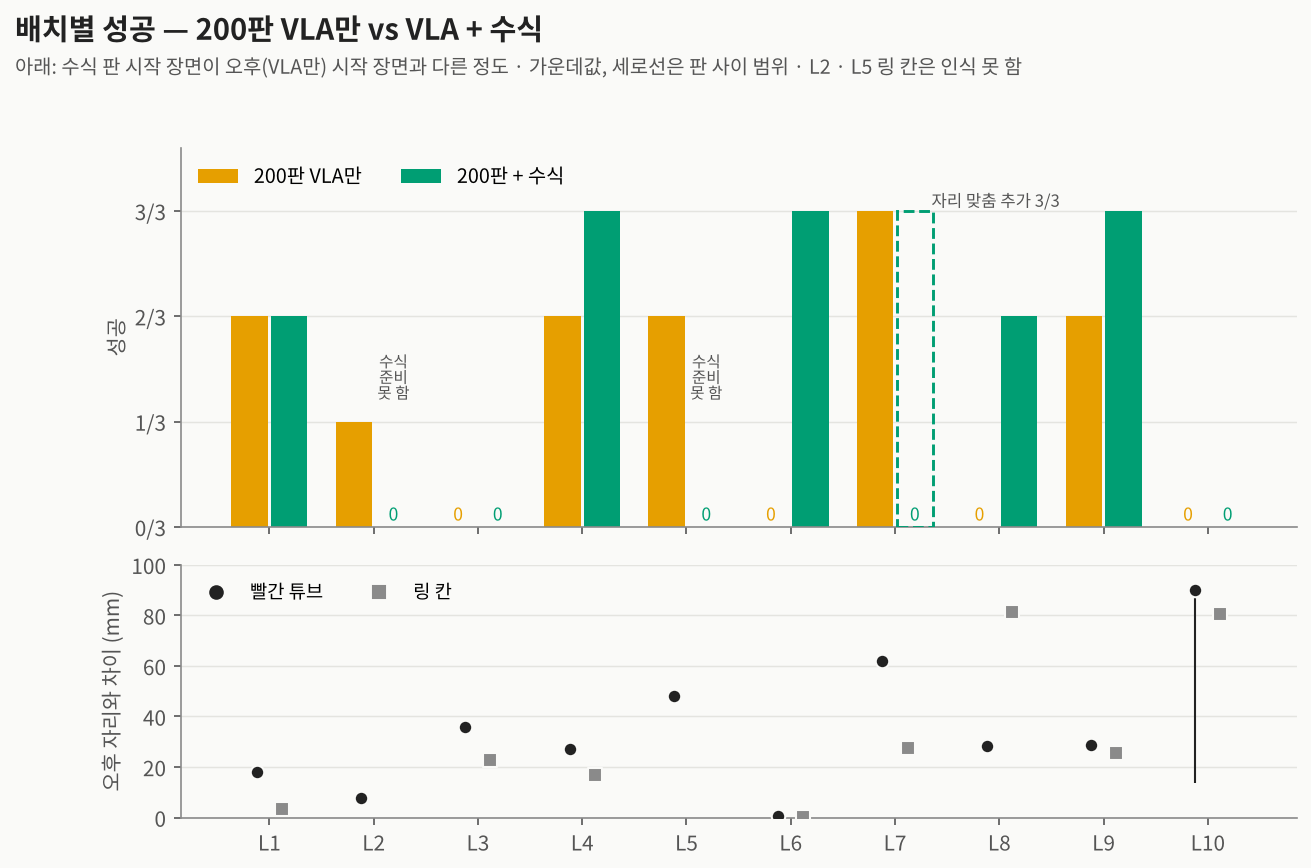
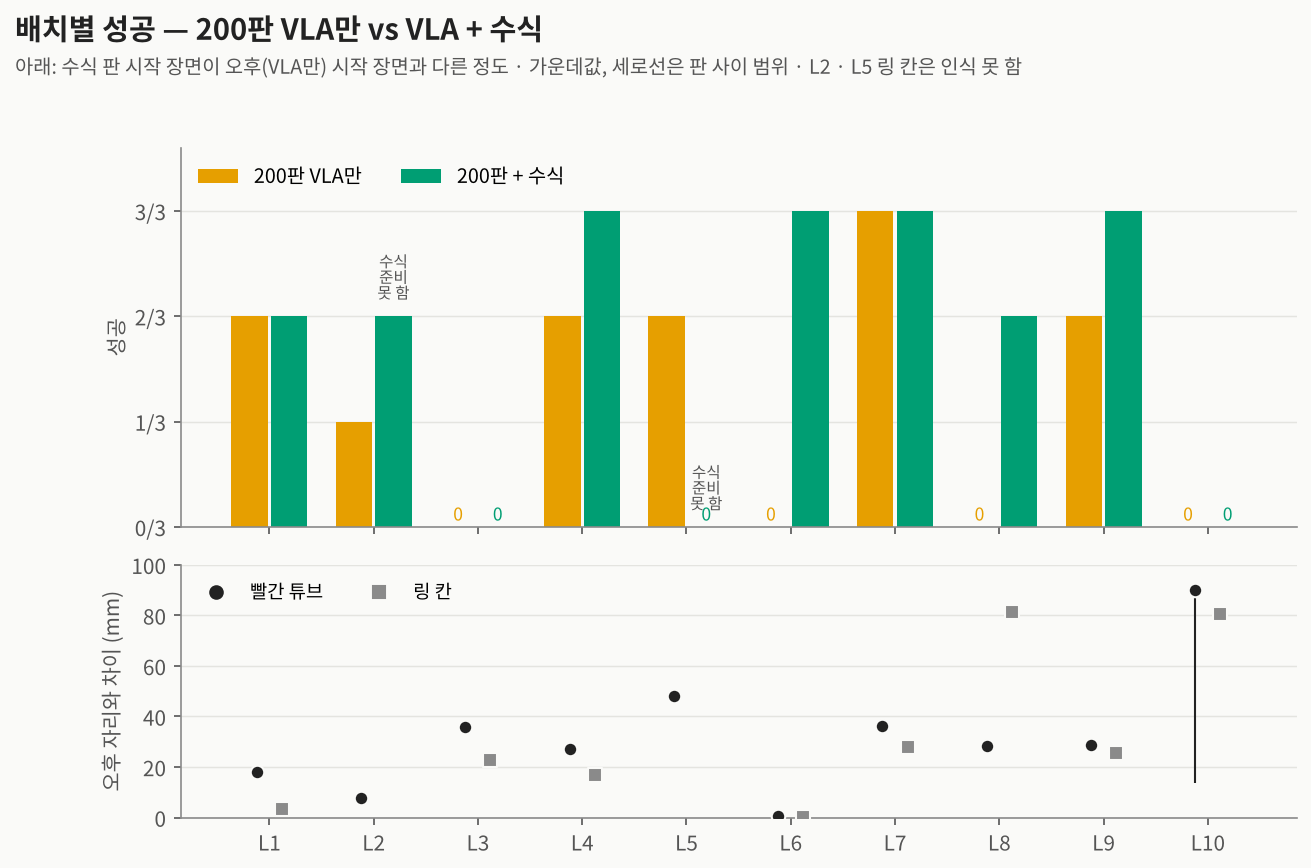
Add files via upload

diff --git a/scripts/make_figures_hybrid.py b/scripts/make_figures_hybrid.py
@@ -69,7 +69,7 @@ def fig_layout(B, H, HA):
     for n in xs:
         R = [r for r in H if int(r["layout"]) == n]
         if R and not any(int(r["hy_ready"]) for r in R):
-            a1.text(n + 0.5 * w, 1.2, "수식\n준비\n못 함", ha="center", va="bottom", fontsize=7.5, color=INK2, linespacing=1.0)
+            a1.text(n + 0.5 * w, sum(1 for r in R if r["verdict"] == "success") + 0.15, "수식\n준비\n못 함", ha="center", va="bottom", fontsize=7.5, color=INK2, linespacing=1.0)
     X = [r for r in HA if r["counted"] == "0"]
     if X:
         n = int(X[0]["layout"])

diff --git a/README.md b/README.md
@@ -9,7 +9,7 @@
 > - 평가 단계표는 FR3 결과([BioRoboticsMVLAFranka](https://github.com/SungjinDavidLee/BioRoboticsMVLAFranka))의 S0–S9를 FR5 기록에 맞춰 썼다(4절).
 > - 추가: 200판 모델에 VLA + 수식(자동 보정)을 붙여 같은 배치 L1–L10에서 다시 쟀다(9절).
 
-**English summary.** Two GR00T N1.7 policies fine-tuned for a FAIRINO FR5 tube-insertion task were each run 30 times on ten layouts (L1–L10, three valid trials per layout) and scored stage by stage (S9 = the red tube is inserted into the red-ringed slot, by human judgement). **1200** — 200 scripted real demonstrations repeated three times plus 600 simulated ones: 16/30 (53%, Wilson 95% CI 36–70%). **200** — the same 200 real demonstrations alone, with colour/brightness augmentation: 12/30 (40%, 25–58%). The difference is not significant (Fisher p = 0.44). Both models reached and grasped the red tube at almost the same rate (S4 19 vs 18 of 30) and every grasped tube was lifted and carried to within about 20 mm of the slot; the gap came from the last step (inserted 16/19 vs 12/18, p = 0.27). Both failed on L3 (the gripper closed nearer the yellow tube in 5 of 6 trials) and L10. The two runs were on different days and the racks were placed by hand from photos, so the same layout number differed by 8–60 mm (tube) and 9–88 mm (slot) between the two days; per-layout comparisons are therefore not paired. **Added (section 9):** the same 200 checkpoint run with a scripted hand-off for the last millimetres of grasping and insertion (rules taken from the FR3 study): 13/30 (43%, 27–61%) vs 12/30 VLA-only (p = 1.0). All 14 red-tube grasp hand-offs held the tube and 13 of 14 insertions seated, but the overall rate barely moved because the remaining failures were wrong-tube choices (8), start-scene recognition failures that left the hand-off unarmed (6) and closes beyond the 25 mm hand-off radius (2).
+**English summary.** Two GR00T N1.7 policies fine-tuned for a FAIRINO FR5 tube-insertion task were each run 30 times on ten layouts (L1–L10, three valid trials per layout) and scored stage by stage (S9 = the red tube is inserted into the red-ringed slot, by human judgement). **1200** — 200 scripted real demonstrations repeated three times plus 600 simulated ones: 16/30 (53%, Wilson 95% CI 36–70%). **200** — the same 200 real demonstrations alone, with colour/brightness augmentation: 12/30 (40%, 25–58%). The difference is not significant (Fisher p = 0.44). Both models reached and grasped the red tube at almost the same rate (S4 19 vs 18 of 30) and every grasped tube was lifted and carried to within about 20 mm of the slot; the gap came from the last step (inserted 16/19 vs 12/18, p = 0.27). Both failed on L3 (the gripper closed nearer the yellow tube in 5 of 6 trials) and L10. The two runs were on different days and the racks were placed by hand from photos, so the same layout number differed by 8–60 mm (tube) and 9–88 mm (slot) between the two days; per-layout comparisons are therefore not paired. **Added (section 9):** the same 200 checkpoint run with a scripted hand-off for the last millimetres of grasping and insertion (rules taken from the FR3 study): 18/30 (60%, 42–75%) vs 12/30 VLA-only (p = 0.20, not significant). All 17 red-tube grasp hand-offs held the tube and 16 of 17 insertions seated; insertion after transport rose from 12/18 to 18/19. The remaining failures were wrong-tube choices (6), start-scene recognition failures that left the hand-off unarmed (4), one close beyond the 25 mm hand-off radius and one partial insertion.
 
 **과제 한 판 — 평가표 단계로 본 네 장면: S0 초기 위치 · S4 쥐기 · S8 이송 · S9 꽂힘**
 
@@ -345,55 +345,56 @@
 - 시간: 2026-11-15 저녁(L2 · L3 · L5 · L6 · L8 · L10), 11-16 오전(L1 · L4 · L7 · L9). 비교 대상은 같은 체크포인트의 VLA만 평가(11-15 오후)다.
 - 배치는 VLA만 평가의 시작 장면을 기준으로 놓고 판마다 차이를 기록했다. 빨간 튜브는 가운데값 28 mm(0–90 mm), 링 칸은 23 mm(0–81 mm) 달랐다.
 - 실행 조건은 3.2절과 같다. 왕복 시간 가운데값 280 ms, 판 시작 3인칭 밝기 147–157.
-- 판정과 채점은 4절 그대로다. 수식이 준비되지 못해 VLA만으로 돈 판도 그대로 센다. 무효 1판(앞 판의 튜브가 링 칸에 꽂힌 채 시작해 멈춤)은 뺐다.
+- 판정과 채점은 4절 그대로다. 수식이 준비되지 못해 VLA만으로 돈 판도 그대로 센다. 무효 4판은 뺐다: 앞 판의 튜브가 링 칸에 꽂힌 채 시작해 멈춘 1판(L9), 받침을 오후 자리와 62 mm 어긋나게 놓고 돈 L7 3판. L7은 다시 놓고(36 mm) 3판을 새로 돌렸다.
 
 ### 9.3 결과
 
 | 조건 | 판 | 성공 (Wilson 95%) | 부분 | 실패 |
 |---|---|---|---|---|
 | 200판 VLA만 | 30 | 12 (40%, 25–58%) | 6 | 12 |
-| 200판 + 수식 | 30 | **13 (43%, 27–61%)** | 5 | 12 |
+| 200판 + 수식 | 30 | **18 (60%, 42–75%)** | 3 | 9 |
 
-두 조건의 성공률 차이는 없다(Fisher p = 1.0).
+성공은 6판 많지만 차이는 통계적으로 확정되지 않는다(Fisher p = 0.20).
 
 ![VLA만 vs VLA + 수식 단계별 누적 통과율](figs/fig_hy_stage_cumulative.png)
 
 | 단계 | VLA만 | + 수식 |
 |---|---|---|
-| S1 목표 선택 | 26 | 22 |
-| S2 접근 | 22 | 20 |
-| S4 쥐기 | 18 | 18 |
-| S6 들기 | 18 | 18 |
-| S8 이송 | 18 | 16 |
-| S9 꽂힘 | 12 | 13 |
+| S1 목표 선택 | 26 | 24 |
+| S2 접근 | 22 | 23 |
+| S4 쥐기 | 18 | 21 |
+| S6 들기 | 18 | 21 |
+| S8 이송 | 18 | 19 |
+| S9 꽂힘 | 12 | 18 |
 
-- 쥐기(S4)까지 온 판은 두 조건 모두 18판이다.
-- 목표 선택(S1)은 수식 쪽이 4판 적다. 늘어난 4판은 L7 2판(빨강과 노랑 사이의 빈 구멍 위에서 닫음, 노랑이 1–3 mm 더 가까움)과 L10 2판(노란 튜브로 감)이다.
-- S8 차이 2판은 링 칸을 인식하지 못한 L5 2판이다. 링 칸 자리를 몰라 통과로 세지 않았다.
+- 차이는 대부분 마지막 꽂기에서 났다. 이송(S8)까지 온 판 중 꽂힌 판이 VLA만 12/18, + 수식 18/19다.
+- 쥐기(S4)까지 온 판은 수식 쪽이 3판 많다(21 vs 18).
+- 목표 선택(S1)은 수식 쪽이 2판 적다. L10 2판이 노란 튜브로 갔다.
+- 들기(S6)에서 이송(S8)으로 가며 수식 쪽 2판이 빠진 것은 링 칸을 인식하지 못한 L5 2판이다. 링 칸 자리를 몰라 통과로 세지 않았다.
 
 수식이 맡은 부분은 아래와 같다.
 
 | 항목 | 결과 |
 |---|---|
 | 수식 준비(시작 장면에서 뚜껑 · 링 칸 인식) | 24/30 — L2 · L5 6판은 링 칸 인식 실패로 VLA만 |
-| 잡기 넘김 | 17판(빨강 14 · 노랑 3), 17판 모두 쥠. 닫을 때 계획과 수평 0.0–0.1 mm, 쥔 폭 28.1–28.3 mm |
-| 빨간 뚜껑 넘김 거리 | VLA가 닫으려던 자리 → 빨간 뚜껑 가운데값 14.8 mm (4.4–24.6) |
-| 잡기 안 넘김 | 7판 — 가장 가까운 뚜껑에서 25.8–37.4 mm, VLA가 그대로 닫음 |
-| 빨간 튜브 꽂기 넘김 | 14판 → 꽂힘 13, 덜 꽂힘 1(L1-2) |
-| 꽂기 넘김 거리 · 놓은 자리 | VLA가 내려가려던 자리 → 링 칸 가운데값 17.8 mm (4.2–23.2), 놓을 때 계획과 수평 3.0 mm (0.6–11.6) |
-| 수식이 준비된 판의 성공 | 13/24 (54%) |
-| 걸린 시간 | 수식 잡기 9.2 s (6.8–15.3), 수식 꽂기 14.1 s (12.8–26.8), 성공 판 전체 31.5 s (27.5–60.1). VLA만 성공 판은 26.0 s |
+| 잡기 넘김 | 20판(빨강 17 · 노랑 3), 20판 모두 쥠. 닫을 때 계획과 수평 0.0–0.1 mm, 쥔 폭 28.1–28.3 mm |
+| 빨간 뚜껑 넘김 거리 | VLA가 닫으려던 자리 → 빨간 뚜껑 가운데값 15.3 mm (4.4–24.6) |
+| 잡기 안 넘김 | 4판 — 가장 가까운 뚜껑에서 25.8–31.5 mm, VLA가 그대로 닫음 |
+| 빨간 튜브 꽂기 넘김 | 17판 → 꽂힘 16, 덜 꽂힘 1(L1-2) |
+| 꽂기 넘김 거리 · 놓은 자리 | VLA가 내려가려던 자리 → 링 칸 가운데값 16.4 mm (3.9–23.2), 놓을 때 계획과 수평 3.0 mm (0.6–11.6) |
+| 수식이 준비된 판의 성공 | 16/24 (67%) |
+| 걸린 시간 | 수식 잡기 9.1 s (6.8–15.3), 빨간 튜브 수식 꽂기 14.2 s (12.8–26.8), 성공 판 전체 33.3 s (27.5–60.1). VLA만 성공 판은 26.0 s |
 
 ![판마다 수식이 넘겨받은 자리](figs/fig_hy_handoff.png)
 
-성공하지 못한 17판의 원인:
+성공하지 못한 12판의 원인:
 
 | 원인 | 판 | 판 번호 |
 |---|---|---|
 | 목표 선택 — 노란 튜브를 쥠 | 5 | L3-1 · L3-3 · L10-2(수식이 넘겨받아 노랑을 잡음), L10-1 · L10-3(VLA가 직접 쥠) |
-| 목표 선택 — 노랑 쪽에서 닫아 빈손 | 3 | L3-2 · L7-1 · L7-2 |
-| 수식 준비 못 함 → VLA만 | 6 | L2-1 · L2-2 · L2-3 · L5-1 · L5-2 · L5-3 (실패 2 · 부분 4) |
-| VLA가 빨강에서 25 mm 밖에서 닫음 | 2 | L8-1 (26 mm) · L7-3 (30 mm) |
+| 목표 선택 — 노랑 쪽에서 닫아 빈손 | 1 | L3-2 |
+| 수식 준비 못 함 → VLA만 | 4 | L2-1 · L5-1 · L5-2 · L5-3 (실패 2 · 부분 2) |
+| VLA가 빨강에서 25 mm 밖에서 닫음 | 1 | L8-1 (26 mm) |
 | 수식 꽂기 뒤 덜 꽂힘 | 1 | L1-2 |
 
 ### 9.4 배치별
@@ -403,14 +404,15 @@
 | 배치 | L1 | L2 | L3 | L4 | L5 | L6 | L7 | L8 | L9 | L10 | 합 |
 |---|---|---|---|---|---|---|---|---|---|---|---|
 | 200판 VLA만 | 2/3 | 1/3 | 0/3 | 2/3 | 2/3 | 0/3 | 3/3 | 0/3 | 2/3 | 0/3 | 12/30 |
-| 200판 + 수식 | 2/3 | 0/3 | 0/3 | 3/3 | 0/3 | 3/3 | 0/3 | 2/3 | 3/3 | 0/3 | 13/30 |
+| 200판 + 수식 | 2/3 | 2/3 | 0/3 | 3/3 | 0/3 | 3/3 | 3/3 | 2/3 | 3/3 | 0/3 | 18/30 |
 | 수식 준비된 판 | 3 | 0 | 3 | 3 | 0 | 3 | 3 | 3 | 3 | 3 | 24 |
-| 오후 자리와 빨강 차이 (mm) | 18 | 6–9 | 35–36 | 26–28 | 48 | 0–1 | 62 | 28–29 | 28–29 | 14–90 | |
+| 오후 자리와 빨강 차이 (mm) | 18 | 6–9 | 35–36 | 26–28 | 48 | 0–1 | 36 | 28–29 | 28–29 | 14–90 | |
 
-- 성공이 늘어난 배치는 L6(+3) · L8(+2) · L4(+1) · L9(+1)이다. VLA가 빨간 뚜껑 25 mm 안까지 온 판을 수식이 쥐고 꽂았다.
-- 성공이 줄어든 배치는 L7(−3) · L5(−2) · L2(−1)이다.
-  - L7은 빨간 튜브가 오후 자리와 62 mm 달랐고, VLA가 3판 모두 빨강 · 노랑 사이 빈 구멍 위에서 닫았다(뚜껑까지 30–37 mm). 받침을 옮겨 차이를 36 mm로 줄이고 3판을 더 돌렸을 때는 VLA가 빨강 15–23 mm 안으로 왔고 3/3 성공했다. 이 3판은 센 판에 넣지 않았다.
-  - L2 · L5는 링 칸 인식이 안 돼 수식 없이 VLA만으로 돈 판이다.
+- 성공이 늘어난 배치는 L6(+3) · L8(+2) · L4(+1) · L9(+1) · L2(+1)이다.
+  - L6 · L8 · L4 · L9는 VLA가 빨간 뚜껑 25 mm 안까지 온 판을 수식이 쥐고 꽂았다. L6 · L8은 VLA만 평가에서 21–38 mm 거리로 헛잡던 배치다.
+  - L2는 링 칸 인식이 안 돼 수식 없이 VLA만으로 돈 판이라 수식 효과가 아니다.
+- 성공이 줄어든 배치는 L5(−2)다. 링 칸 인식이 안 돼 VLA만으로 돌았다.
+- L7은 두 조건 모두 3/3이다. 수식 쪽은 VLA가 빨강 15–23 mm 안에서 닫으려던 것을 3판 모두 수식이 넘겨받았다.
 - 노란 튜브 쪽으로 간 L3 · L10은 두 조건 모두 0/3이다.
 
 ### 9.5 실행 영상
@@ -425,14 +427,15 @@
 ### 9.6 해석과 한계
 
 - FR3에서는 같은 방식으로 VLA만 6/20(E2)에서 VLA + 수식 16/30(E4)이 됐다. 그때 VLA만의 실패는 대부분 맞는 튜브 근처에서 1 cm 안팎 빗나간 경우였다.
-- FR5 200판은 VLA만으로도 30판 중 18판을 이미 쥐었다. 수식이 넘겨받은 빨강 판은 잡기 14/14, 꽂기 13/14로 잘 됐지만, 남은 실패는 목표 선택(8) · 인식 실패(6) · 25 mm 밖(2) 쪽이라 수식이 고칠 수 있는 몫이 적었다.
-- 두 조건은 다른 시간대에 돌렸고, 배치 자리도 빨간 튜브 기준 가운데값 28 mm 달랐다. 같은 시간대에 번갈아 돌린 비교가 아니다. L7처럼 같은 배열에서 자리만 바뀌어도 결과가 0/3과 3/3으로 갈렸다.
+- FR5 200판 VLA만의 실패는 쥐기 전(12판)과 꽂기(6판)로 나뉜다. 수식은 꽂기 쪽을 거의 다 메웠고(이송 뒤 꽂힘 12/18 → 18/19), 쥐기 쪽은 VLA가 25 mm 안까지 온 판만 메웠다. 남은 실패는 목표 선택(6) · 인식 실패(4) · 25 mm 밖(1) · 덜 꽂힘(1)이다.
+- 두 조건은 다른 시간대에 돌렸고, 배치 자리도 빨간 튜브 기준 가운데값 28 mm 달랐다. 같은 시간대에 번갈아 돌린 비교가 아니다.
+- L7은 처음에 받침을 오후 자리와 62 mm 어긋나게 놓고 3판을 돌렸다(0/3, VLA가 빨강 · 노랑 사이 빈 구멍 위에서 닫음). 이 3판을 배치 잘못으로 무효 처리하고, 다시 놓고(36 mm) 돈 3판(3/3)을 셌다. 무효 처리는 결과를 본 뒤 정했다. 다른 배치도 오후 자리와 차이가 있었다(L10-2 · L10-3 90 mm, L5 48 mm).
 - 배치 순서는 VLA만 결과에서 0/3이던 배치(L3 · L6 · L8 · L10)부터 돌렸다. 10배치를 모두 돌렸으므로 순서만 다르다.
 - L6 3판은 v6.7a 규칙을 정한 직후 시험 기록으로 돈 판을 옮겨 넣었다. 3/3 결과를 본 뒤에 넣기로 정했다. L6 장면에는 링 칸이 인식되도록 보이는 구멍에 링을 하나 더 두어, VLA만 평가 때와 장면이 다르다.
-- L2 · L5 6판의 판정은 사람이 정했다. 시작 장면에 링 칸 자리가 없어 자동 판정이 끝 장면을 판정하지 못했다.
+- L2 · L5 6판은 시작 장면에 링 칸 자리가 없어 자동 판정이 꽂힘을 판정하지 못했다. 판정은 끝 장면 사진으로 사람이 정했다(L2-2 · L2-3 성공).
 - L10-1은 수식 꽂기 중 제어판 추종이 꺼져 그 자리에 멈췄다(노란 튜브 판, 실패). 원인은 기록으로 가리지 못했다.
 - 꽂기 미세조정이 한계(손목 5° · 좌우 3 mm)에 닿은 채 놓은 판이 많다. 11-16 오전에는 내려가기 전 튜브 기울기가 −8 ~ −11°였다.
-- 조건마다 30판이라 1판 차이로는 아무것도 말할 수 없다.
+- 조건마다 30판이라 6판 차이도 통계적으로 확정되지 않는다(p = 0.20).
 
 ---
 
@@ -459,8 +462,8 @@
 | `figs/fig_timeline_200_L9-1.png` | 한 판의 손끝 높이 · 손가락 폭 |
 | `figs/1200_L7-1_photos.jpg` | 1200판 성공 판 시작 · 끝 사진 |
 | `media/200_*.mp4`, `media/200_*_x3.gif` | 200판 실행 영상 4개 (실제 속도 · 3배속) |
-| `data/hybrid_trials.csv` | 200판 + 수식 유효 판 33개(센 판 30 + L7 자리 맞춤 추가 3, `counted`로 구분): `trials.csv`와 같은 열 + 수식 준비 · 잡기/꽂기 넘김 여부 · 넘김 거리 · 수식 구간 결과 · 오후 자리와 차이 |
-| `data/hybrid_invalid.csv` | 200판 + 수식 무효 1판 |
+| `data/hybrid_trials.csv` | 200판 + 수식 유효 판 30개: `trials.csv`와 같은 열 + 수식 준비 · 잡기/꽂기 넘김 여부 · 넘김 거리 · 수식 구간 결과 · 오후 자리와 차이 |
+| `data/hybrid_invalid.csv` | 200판 + 수식 무효 4판 (L7 배치 잘못 3 · L9 시작 상태 1) |
 | `data/hybrid_summary.json` | 200판 + 수식 누적 통과 · 처음 막힌 단계 · 수식 넘김 수 · 실패 원인 · 배치별 성공(VLA만과 나란히) |
 | `figs/hy_keyframes.jpg` | 200판 + 수식 L9-3 장면 띠 |
 | `figs/fig_hy_stage_cumulative.png` | VLA만 vs VLA + 수식 단계별 누적 통과율 |
